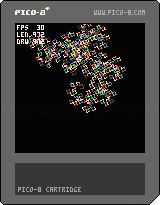
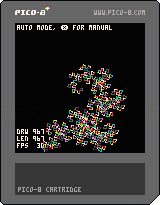
Manual controls

Changed region(s): [[0.0938, 0.1171, 0.8125, 0.7317], [0.2812, 0.1171, 0.3438, 0.1463]]

diff --git a/lua/Pico-8/dragon.js b/lua/Pico-8/dragon.js
@@ -68,15 +68,15 @@ var _cartdat=[
 0,0,0,0,0,0,0,0,0,0,0,0,0,0,0,0,0,16,0,0,0,0,0,0,0,0,0,0,0,0,0,0,0,0,0,0,0,0,0,0,0,0,0,0,0,0,0,0,0,0,0,0,0,0,0,0,0,0,0,0,0,0,0,0,0,0,0,0,0,0,0,0,0,0,0,0,0,0,0,0,0,0,0,0,0,16,0,0,0,0,0,0,0,0,0,0,0,0,0,0,0,0,0,0,0,0,0,0,0,0,0,0,0,0,0,0,0,0,0,0,0,0,0,0,0,0,0,0,0,0,0,0,0,0,0,0,0,0,0,0,0,0,0,0,0,0,0,0,0,0,0,0,0,16,0,0,0,0,0,0,0,0,0,0,0,0,0,0,0,0,0,0,0,0,0,0,0,0,0,0,0,0,0,0,0,0,0,0,0,0,0,0,0,0,0,0,0,0,0,0,0,0,0,0,0,0,0,0,0,0,0,0,0,0,0,0,0,0,0,0,0,16,0,0,0,0,0,0,0,0,0,0,0,0,0,0,0,0,0,0,0,0,0,0,0,0,0,0,0,0,0,0,0,0,0,0,
 0,0,0,0,0,0,0,0,0,0,0,0,0,0,0,0,0,0,0,0,0,0,0,0,0,0,0,0,0,0,0,0,0,16,0,0,0,0,0,0,0,0,0,0,0,0,0,0,0,0,0,0,0,0,0,0,0,0,0,0,0,0,0,0,0,0,0,0,0,0,0,0,0,0,0,0,0,0,0,0,0,0,0,0,0,0,0,0,0,0,0,0,0,0,0,0,0,0,0,0,0,16,0,0,0,0,0,0,0,0,0,0,0,0,0,0,0,0,0,0,0,0,0,0,0,0,0,0,0,0,0,0,0,0,0,0,0,0,0,0,0,0,0,0,0,0,0,0,0,0,0,0,0,0,0,0,0,0,0,0,0,0,0,0,0,0,0,0,0,16,0,0,0,0,0,0,0,0,0,0,0,0,0,0,0,0,0,0,0,0,0,0,0,0,0,0,0,0,0,0,0,0,0,0,0,0,0,0,0,0,0,0,0,0,0,0,0,0,0,0,0,0,0,0,0,0,0,0,0,0,0,0,0,0,0,0,0,16,0,0,0,0,0,0,0,0,0,0,0,0,0,0,0,0,0,0,
 0,0,0,0,0,0,0,0,0,0,0,0,0,0,0,0,0,0,0,0,0,0,0,0,0,0,0,0,0,0,0,0,0,0,0,0,0,0,0,0,0,0,0,0,0,0,0,0,0,16,0,0,0,0,0,0,0,0,0,0,0,0,0,0,0,0,0,0,0,0,0,0,0,0,0,0,0,0,0,0,0,0,0,0,0,0,0,0,0,0,0,0,0,0,0,0,0,0,0,0,0,0,0,0,0,0,0,0,0,0,0,0,0,0,0,0,0,16,0,0,0,0,0,0,0,0,0,0,0,0,0,0,0,0,0,0,0,0,0,0,0,0,0,0,0,0,0,0,0,0,0,0,0,0,0,0,0,0,0,0,0,0,0,0,0,0,0,0,0,0,0,0,0,0,0,0,0,0,0,0,0,0,0,0,0,16,0,0,0,0,0,0,0,0,0,0,0,0,0,0,0,0,0,0,0,0,0,0,0,0,0,0,0,0,0,0,0,0,0,0,0,0,0,0,0,0,0,0,0,0,0,0,0,0,0,0,0,0,0,0,0,0,0,0,0,0,0,0,0,0,0,0,0,16,0,0,
-58,99,58,0,21,69,0,0,1,15,24,31,42,43,1,1,0,45,0,45,2,16,30,13,19,27,26,56,28,11,60,45,14,37,2,25,21,23,17,2,15,30,13,25,17,30,1,62,49,51,51,51,60,19,60,70,60,60,63,38,25,27,16,17,24,61,254,61,62,65,37,19,17,26,17,30,13,24,64,17,18,33,26,15,32,21,27,26,2,30,17,34,17,30,31,17,2,42,13,30,30,43,1,2,24,27,15,13,24,2,21,57,2,22,2,51,2,4,57,2,40,61,23,1,62,21,31,33,24,32,61,18,60,62,35,20,21,24,17,2,21,2,48,62,21,16,27,1,2,61,95,46,21,47,57,60,107,22,47,63,31,60,124,61,119,21,47,62,30,21,2,50,65,27,63,23,22,2,0,45,60,57,17,26,16,66,35,32,33,30,68,47,66,42,1,61,35,70,132,26,33,75,22,21,69,25,59,26,27,32,42,34,13,70,41,21,18,2,60,25,76,22,2,3,2,32,20,17,26,68,55,64,51,65,34,24,31,17,61,129,3,66,67,65,196,80,24,19,17,59,75,21,13,37,31,75,
+58,99,58,0,24,20,0,0,1,15,24,31,42,43,1,1,0,45,0,45,2,16,30,13,19,27,26,56,28,11,60,45,14,37,2,25,21,23,17,2,15,30,13,25,17,30,1,62,49,51,51,51,60,19,60,70,60,60,63,38,25,27,16,17,24,61,254,61,62,65,37,19,17,26,17,30,13,24,64,17,18,33,26,15,32,21,27,26,2,30,17,34,17,30,31,17,2,42,13,30,30,43,1,2,24,27,15,13,24,2,21,57,2,22,2,51,2,4,57,2,40,61,23,1,62,21,31,33,24,32,61,18,60,62,35,20,21,24,17,2,21,2,48,62,21,16,27,1,2,61,95,46,21,47,57,60,107,22,47,63,31,60,124,61,119,21,47,62,30,21,2,50,65,27,63,23,22,2,0,45,60,57,17,26,16,66,35,32,33,30,68,47,66,42,1,61,35,70,132,26,33,75,22,21,69,25,59,26,27,32,42,34,13,70,41,21,18,2,60,25,76,22,2,3,2,32,20,17,26,68,55,64,51,65,34,24,31,17,61,129,3,66,67,65,196,80,24,19,17,59,75,21,13,37,31,75,
 44,74,28,76,18,5,76,19,74,173,70,23,18,27,30,74,28,21,26,2,13,24,24,78,37,5,43,75,69,13,16,16,42,77,89,57,2,21,79,27,72,247,72,231,21,31,59,17,25,28,32,37,42,31,82,25,75,97,31,72,35,26,21,24,2,66,23,60,60,0,39,0,39,75,222,32,13,14,24,17,59,31,24,21,15,17,42,32,14,24,57,2,18,21,30,31,67,20,24,13,60,38,31,32,17,28,64,47,87,73,62,54,16,87,27,44,45,1,85,25,71,76,51,63,66,66,34,89,18,63,39,66,45,40,64,60,63,47,61,57,88,74,2,64,82,46,40,64,74,50,4,88,41,67,22,87,75,85,55,71,139,66,61,86,76,103,18,0,45,0,45,0,45,60,19,60,38,104,32,18,30,13,15,32,98,27,61,201,105,42,15,71,25,31,59,106,64,59,62,103,99,89,61,252,64,19,72,78,63,247,65,46,56,59,59,21,26,16,17,36,102,28,65,246,67,45,87,30,106,104,67,246,69,29,54,26,17,35,114,31,84,140,17,32,25,17,32,13,83,49,42,44,91,26,24,16,
 59,24,21,31,32,86,20,81,17,2,45,57,71,252,74,35,91,75,75,31,2,64,31,67,243,67,227,15,33,30,30,17,26,32,59,21,32,116,26,116,34,68,161,40,31,17,24,18,56,67,136,65,122,63,246,124,20,73,252,73,204,18,24,13,32,59,72,35,31,42,33,28,59,32,27,99,68,120,88,81,33,112,35,113,16,2,61,62,112,100,60,94,51,76,28,24,18,70,253,70,77,119,48,116,33,63,74,48,62,253,73,122,65,118,112,53,51,4,57,68,58,57,98,125,129,120,116,190,113,101,76,221,130,16,2,111,41,68,80,68,70,127,199,102,81,91,245,91,181,83,74,17,59,26,17,36,32,91,62,92,22,78,73,111,40,4,77,42,123,36,31,27,25,17,80,48,123,108,142,107,42,77,76,82,144,43,2,43,2,125,86,125,39,2,42,65,114,57,135,204,2,42,65,118,43,80,138,63,51,91,218,63,25,69,102,98,128,71,170,105,252,74,247,74,87,91,61,92,131,151,77,89,254,87,97,48,92,95,124,78,92,53,79,240,151,48,150,50,120,255,115,121,166,244,166,132,
 34,21,17,35,0,45,15,27,26,32,30,27,24,24,168,30,168,252,166,62,129,243,173,51,35,21,26,19,129,243,129,99,28,27,21,26,92,20,128,170,61,51,128,177,62,53,127,248,63,75,126,255,65,50,126,54,2,36,57,2,37,99,63,126,252,126,60,132,35,36,2,62,36,51,62,24,126,139,69,52,126,242,66,246,66,22,25,13,19,26,21,32,33,16,17,133,50,157,127,29,30,32,93,76,36,0,94,5,2,50,109,68,37,0,94,166,40,131,85,63,120,138,254,71,95,59,59,166,43,175,70,184,138,74,225,3,57,3,126,130,56,145,34,67,70,67,20,179,17,56,36,61,140,74,35,68,71,61,92,37,2,116,249,158,74,85,218,155,141,27,30,21,140,20,136,73,155,186,61,153,155,183,63,145,155,244,64,173,155,241,66,154,88,72,16,21,30,17,203,74,57,2,206,28,32,13,59,13,26,19,24,17,156,246,156,118,63,129,51,63,253,63,93,61,42,60,158,158,120,74,151,158,245,70,247,70,119,24,17,18,133,72,156,61,71,128,207,22,61,66,71,134,163,122,63,36,
-170,254,75,189,30,21,19,20,65,247,220,33,212,20,65,247,169,97,63,53,87,248,164,81,184,123,215,25,32,68,44,184,163,61,68,183,187,62,71,183,243,63,94,182,251,65,70,87,213,87,180,57,2,121,79,184,242,184,114,96,207,99,252,188,48,65,252,93,64,120,28,127,109,128,69,187,143,75,64,187,247,71,255,71,47,25,27,34,17,148,32,34,99,21,27,30,134,67,222,31,26,28,33,32,59,15,27,24,27,117,53,164,33,134,106,188,50,135,71,115,26,63,150,93,81,54,16,27,207,44,35,162,52,64,255,122,52,64,147,225,27,65,108,127,129,69,67,1,119,22,83,243,83,51,66,242,71,241,191,60,222,47,42,42,3,188,96,71,69,127,26,13,204,29,61,177,190,17,4,5,11,43,61,57,63,240,37,63,224,37,63,96,186,60,27,30,66,151,78,120,66,86,61,160,66,245,62,158,66,68,61,160,66,163,203,106,24,21,26,17,180,71,72,90,57,70,167,57,67,157,60,156,37,57,77,235,119,70,166,27,26,90,17,33,88,39,75,31,175,150,222,41,168,42,84,32,
-230,240,107,85,247,24,35,13,30,16,101,28,31,32,13,26,15,106,26,95,210,96,175,152,253,152,125,99,165,151,55,65,96,2,53,2,31,21,26,195,68,145,171,141,125,63,254,242,35,63,158,15,27,31,63,254,63,206,224,48,107,254,107,254,239,124,75,83,101,246,124,121,141,199,143,241,244,134,140,60,105,253,129,96,140,216,142,243,64,153,139,94,133,249,110,86,196,30,252,99,59,32,13,28,17,42,60,37,161,21,87,84,249,39,242,37,194,88,92,35,120,99,89,111,85,128,125,35,197,32,41,2,4,8,50,4,253,34,228,115,253,57,228,83,66,39,226,105,200,65,97,93,248,44,62,142,51,115,17,249,113,248,74,161,53,65,57,2,17,24,31,159,25,217,110,157,72,61,90,249,57,70,244,70,244,70,36,244,27,105,245,77,209,251,41,158,247,223,21,245,64,211,124,245,223,210,46,43,62,84,232,213,4,203,23,63,94,56,24,17,26,19,32,20,247,18,40,62,91,245,160,62,101,85,39,183,39,62,242,71,29,1,21,210,31,21,245,24,112,245,219,83,9,7,57,2,
-9,7,43,62,120,188,169,3,1,170,113,166,254,63,240,57,2,3,56,8,90,51,67,145,79,31,230,73,35,13,24,23,65,28,117,89,142,27,3,1,1,32,20,30,27,32,177,20,252,29,74,103,5,3,61,24,251,114,249,22,16,252,26,244,47,248,102,18,28,31,215,37,229,19,42,10,250,25,150,17,61,170,49,51,2,6,3,138,107,65,255,134,67,93,89,67,253,190,18,69,21,251,71,155,24,69,253,48,98,94,65,248,107,39,254,78,1,2,84,91,60,24,239,17,59,31,24,21,15,17,212,29,86,135,57,2,4,57,69,249,243,33,63,27,191,73,134,185,211,157,205,24,56,3,3,146,19,194,81,251,100,90,176,64,118,149,170,88,40,66,240,140,201,64,152,223,122,81,61,4,75,23,69,249,69,201,77,52,82,47,72,240,72,176,68,54,157,62,92,235,9,7,150,25,42,95,28,147,82,64,251,76,251,2,62,45,43,60,56,43,0,94,63,24,247,30,179,27,56,3,52,97,226,1,246,49,97,128,193,51,96,46,24,111,47,2,28,30,253,24,42,0,34,97,36,2,
-0,34,2,56,56,98,166,86,58,86,29,98,38,62,88,116,29,62,71,103,233,89,54,11,62,60,88,104,143,249,143,105,108,185,68,132,16,30,35,65,92,88,241,68,74,8,68,43,176,45,73,51,1,1,0,0,0,0,0,0,0,0,0,0,0,0,0,0,0,0,0,0,0,0,0,0,0,0,0,0,0,0,0,0,0,0,0,0,0,0,0,0,0,0,0,0,0,0,0,0,0,0,0,0,0,0,0,0,0,0,0,0,0,0,0,0,0,0,0,0,0,0,0,0,0,0,0,0,0,0,0,0,0,0,0,0,0,0,0,0,0,0,0,0,0,0,0,0,0,0,0,0,0,0,0,0,0,0,0,0,0,0,0,0,0,0,0,0,0,0,0,0,0,0,0,0,0,0,0,0,0,0,0,0,0,0,0,0,0,0,0,0,0,0,0,0,0,0,0,0,0,0,0,0,0,0,0,0,0,0,0,0,0,0,0,0,0,0,0,0,0,0,0,0,0,0,0,0,0,0,0,0,0,0,0,0,0,0,0,0,0,0,0,0,0,0,0,0,0,0,0,0,0,0,0,0,
-0,0,0,0,0,0,0,0,0,0,0,0,0,0,0,0,0,0,0,0,0,0,0,0,0,0,0,0,0,0,0,0,0,0,0,0,0,0,0,0,0,0,0,0,0,0,0,0,0,0,0,0,0,0,0,0,0,0,0,0,0,0,0,0,0,0,0,0,0,0,0,0,0,0,0,0,0,0,0,0,0,0,0,0,0,0,0,0,0,0,0,0,0,0,0,0,0,0,0,0,0,0,0,0,0,0,0,0,0,0,0,0,0,0,0,0,0,0,0,0,0,0,0,0,0,0,0,0,0,0,0,0,0,0,0,0,0,0,0,0,0,0,0,0,0,0,0,0,0,0,0,0,0,0,0,0,0,0,0,0,0,0,0,0,0,0,0,0,0,0,0,0,0,0,0,0,0,0,0,0,0,0,0,0,0,0,0,0,0,0,0,0,0,0,0,0,0,0,0,0,0,0,0,0,0,0,0,0,0,0,0,0,0,0,0,0,0,0,0,0,0,0,0,0,0,0,0,0,0,0,0,0,0,0,0,0,0,0,0,0,0,0,0,0,0,0,0,0,0,0,0,0,0,0,0,0,
+170,254,75,189,30,21,19,20,65,247,220,33,212,20,65,247,169,97,63,53,87,248,164,81,184,123,215,25,32,68,44,184,163,61,68,183,187,62,71,183,243,63,94,182,251,65,70,87,213,87,180,57,2,121,79,184,242,184,114,96,207,99,252,188,48,65,252,93,64,120,28,127,109,128,69,187,143,75,64,187,247,71,255,71,47,30,17,241,34,162,30,148,20,34,99,25,27,30,125,115,170,64,134,98,61,173,121,140,27,34,63,42,186,253,77,126,62,81,65,187,228,30,26,28,33,32,59,15,27,24,27,123,52,170,32,140,105,67,148,121,25,67,180,187,67,16,27,213,43,35,168,51,64,255,128,51,71,183,65,124,71,244,125,21,89,242,89,50,66,242,71,241,197,59,228,46,42,42,3,193,111,78,73,133,25,13,210,28,61,177,196,16,4,5,11,43,61,57,63,240,37,63,224,37,63,96,192,59,27,30,66,151,78,120,66,86,61,160,66,245,62,158,66,68,61,160,66,163,209,105,24,21,26,17,186,70,72,90,57,70,167,57,67,157,60,156,37,57,77,235,125,69,172,26,26,90,
+17,33,88,39,75,31,181,149,228,40,174,41,84,32,235,255,113,84,253,23,35,13,30,16,107,27,31,32,13,26,15,112,25,95,210,102,170,158,252,158,124,105,160,157,54,65,96,2,53,2,31,21,26,201,67,151,170,147,124,63,254,248,34,63,158,15,27,31,63,254,63,206,229,63,107,254,107,254,245,123,75,83,101,246,130,120,147,198,149,240,250,133,146,59,105,253,123,112,146,199,148,242,64,153,145,93,139,248,110,86,202,29,248,108,59,32,13,28,17,42,60,37,167,20,87,84,248,47,248,36,200,87,92,35,120,99,89,111,85,128,125,35,202,47,41,2,4,8,50,4,252,42,234,114,239,63,234,82,66,39,232,104,206,64,97,93,254,43,62,142,51,115,17,255,112,254,73,167,52,65,57,2,17,24,31,165,24,223,109,163,71,61,90,247,56,70,244,70,244,70,36,250,26,105,245,77,209,252,43,164,246,223,232,224,130,224,204,215,31,33,28,249,26,21,32,21,222,45,27,26,16,60,26,27,26,31,63,254,64,251,1,1,242,73,223,124,243,216,222,46,43,62,84,244,213,4,
+215,23,63,94,56,24,17,26,19,32,20,229,27,40,62,91,18,24,13,32,251,65,63,127,56,91,40,195,39,62,242,77,30,71,92,118,245,231,98,9,7,57,2,9,7,43,62,120,200,168,3,1,182,112,178,253,63,240,57,2,3,56,8,96,51,67,145,85,31,38,27,27,25,59,25,27,16,203,47,0,34,13,33,32,27,0,34,1,1,243,76,35,13,24,23,67,16,124,93,149,31,3,1,1,32,20,30,27,32,190,23,16,59,75,122,5,3,61,24,84,252,84,252,88,253,251,173,254,25,247,116,82,22,16,178,27,240,32,15,33,30,30,226,18,59,18,28,31,232,42,246,24,42,10,247,29,161,23,61,170,49,51,2,6,3,150,97,70,241,145,73,104,95,71,255,207,23,73,23,147,71,166,30,73,255,48,110,84,65,248,118,45,150,78,1,2,90,80,60,24,226,28,59,31,24,21,15,17,230,18,91,140,57,2,4,57,69,249,203,32,63,27,208,78,145,191,229,146,222,29,56,3,3,157,25,196,248,27,90,114,196,105,213,89,161,165,94,35,66,245,152,196,254,18,97,251,
+82,50,4,75,28,69,254,69,206,77,57,83,36,72,245,72,181,68,54,78,91,189,18,14,32,26,42,0,151,43,177,97,99,191,25,13,26,33,13,24,0,34,141,52,132,33,62,94,0,142,62,78,192,44,102,254,62,93,175,23,244,31,195,16,104,159,105,96,183,124,105,225,9,7,170,19,42,109,22,166,92,72,250,84,255,2,62,45,43,60,56,43,0,94,63,24,211,30,199,21,56,3,52,109,232,203,47,25,17,31,31,13,19,113,120,220,23,16,234,29,0,151,151,53,74,122,74,87,71,199,76,88,195,101,250,30,64,156,78,69,64,62,0,92,26,2,0,142,156,52,119,40,57,2,0,148,0,131,2,66,23,121,33,80,35,82,91,0,148,82,123,121,209,53,211,17,56,195,52,82,138,0,131,82,138,123,223,52,62,126,198,82,150,67,0,148,0,131,0,139,0,145,2,0,151,0,142,1,1,84,50,120,132,227,61,120,34,24,140,40,2,28,30,250,18,42,0,34,120,40,2,0,34,2,56,56,121,170,109,62,4,5,3,2,0,45,165,16,57,2,122,33,62,95,145,29,
+62,78,131,230,63,147,11,63,50,110,113,179,240,179,80,136,188,69,129,16,30,35,66,82,111,253,69,167,8,69,39,212,58,233,18,89,103,221,82,73,75,90,109,72,77,72,70,125,78,101,75,1,0,0,0,0,0,0,0,0,0,0,0,0,0,0,0,0,0,0,0,0,0,0,0,0,0,0,0,0,0,0,0,0,0,0,0,0,0,0,0,0,0,0,0,0,0,0,0,0,0,0,0,0,0,0,0,0,0,0,0,0,0,0,0,0,0,0,0,0,0,0,0,0,0,0,0,0,0,0,0,0,0,0,0,0,0,0,0,0,0,0,0,0,0,0,0,0,0,0,0,0,0,0,0,0,0,0,0,0,0,0,0,0,0,0,0,0,0,0,0,0,0,0,0,0,0,0,0,0,0,0,0,0,0,0,0,0,0,0,0,0,0,0,0,0,0,0,0,0,0,0,0,0,0,0,0,0,0,0,0,0,0,0,0,0,0,0,0,0,0,0,0,0,0,0,0,0,0,0,0,0,0,0,0,0,0,0,0,0,0,0,0,0,0,0,0,0,0,0,0,0,0,0,0,0,
 0,0,0,0,0,0,0,0,0,0,0,0,0,0,0,0,0,0,0,0,0,0,0,0,0,0,0,0,0,0,0,0,0,0,0,0,0,0,0,0,0,0,0,0,0,0,0,0,0,0,0,0,0,0,0,0,0,0,0,0,0,0,0,0,0,0,0,0,0,0,0,0,0,0,0,0,0,0,0,0,0,0,0,0,0,0,0,0,0,0,0,0,0,0,0,0,0,0,0,0,0,0,0,0,0,0,0,0,0,0,0,0,0,0,0,0,0,0,0,0,0,0,0,0,0,0,0,0,0,0,0,0,0,0,0,0,0,0,0,0,0,0,0,0,0,0,0,0,0,0,0,0,0,0,0,0,0,0,0,0,0,0,0,0,0,0,0,0,0,0,0,0,0,0,0,0,0,0,0,0,0,0,0,0,0,0,0,0,0,0,0,0,0,0,0,0,0,0,0,0,0,0,0,0,0,0,0,0,0,0,0,0,0,0,0,0,0,0,0,0,0,0,0,0,0,0,0,0,0,0,0,0,0,0,0,0,0,0,0,0,0,0,0,0,0,0,0,0,0,0,0,0,0,0,0,0,
 0,0,0,0,0,0,0,0,0,0,0,0,0,0,0,0,0,0,0,0,0,0,0,0,0,0,0,0,0,0,0,0,0,0,0,0,0,0,0,0,0,0,0,0,0,0,0,0,0,0,0,0,0,0,0,0,0,0,0,0,0,0,0,0,0,0,0,0,0,0,0,0,0,0,0,0,0,0,0,0,0,0,0,0,0,0,0,0,0,0,0,0,0,0,0,0,0,0,0,0,0,0,0,0,0,0,0,0,0,0,0,0,0,0,0,0,0,0,0,0,0,0,0,0,0,0,0,0,0,0,0,0,0,0,0,0,0,0,0,0,0,0,0,0,0,0,0,0,0,0,0,0,0,0,0,0,0,0,0,0,0,0,0,0,0,0,0,0,0,0,0,0,0,0,0,0,0,0,0,0,0,0,0,0,0,0,0,0,0,0,0,0,0,0,0,0,0,0,0,0,0,0,0,0,0,0,0,0,0,0,0,0,0,0,0,0,0,0,0,0,0,0,0,0,0,0,0,0,0,0,0,0,0,0,0,0,0,0,0,0,0,0,0,0,0,0,0,0,0,0,0,0,0,0,0,0,
 0,0,0,0,0,0,0,0,0,0,0,0,0,0,0,0,0,0,0,0,0,0,0,0,0,0,0,0,0,0,0,0,0,0,0,0,0,0,0,0,0,0,0,0,0,0,0,0,0,0,0,0,0,0,0,0,0,0,0,0,0,0,0,0,0,0,0,0,0,0,0,0,0,0,0,0,0,0,0,0,0,0,0,0,0,0,0,0,0,0,0,0,0,0,0,0,0,0,0,0,0,0,0,0,0,0,0,0,0,0,0,0,0,0,0,0,0,0,0,0,0,0,0,0,0,0,0,0,0,0,0,0,0,0,0,0,0,0,0,0,0,0,0,0,0,0,0,0,0,0,0,0,0,0,0,0,0,0,0,0,0,0,0,0,0,0,0,0,0,0,0,0,0,0,0,0,0,0,0,0,0,0,0,0,0,0,0,0,0,0,0,0,0,0,0,0,0,0,0,0,0,0,0,0,0,0,0,0,0,0,0,0,0,0,0,0,0,0,0,0,0,0,0,0,0,0,0,0,0,0,0,0,0,0,0,0,0,0,0,0,0,0,0,0,0,0,0,0,0,0,0,0,0,0,0,0,
